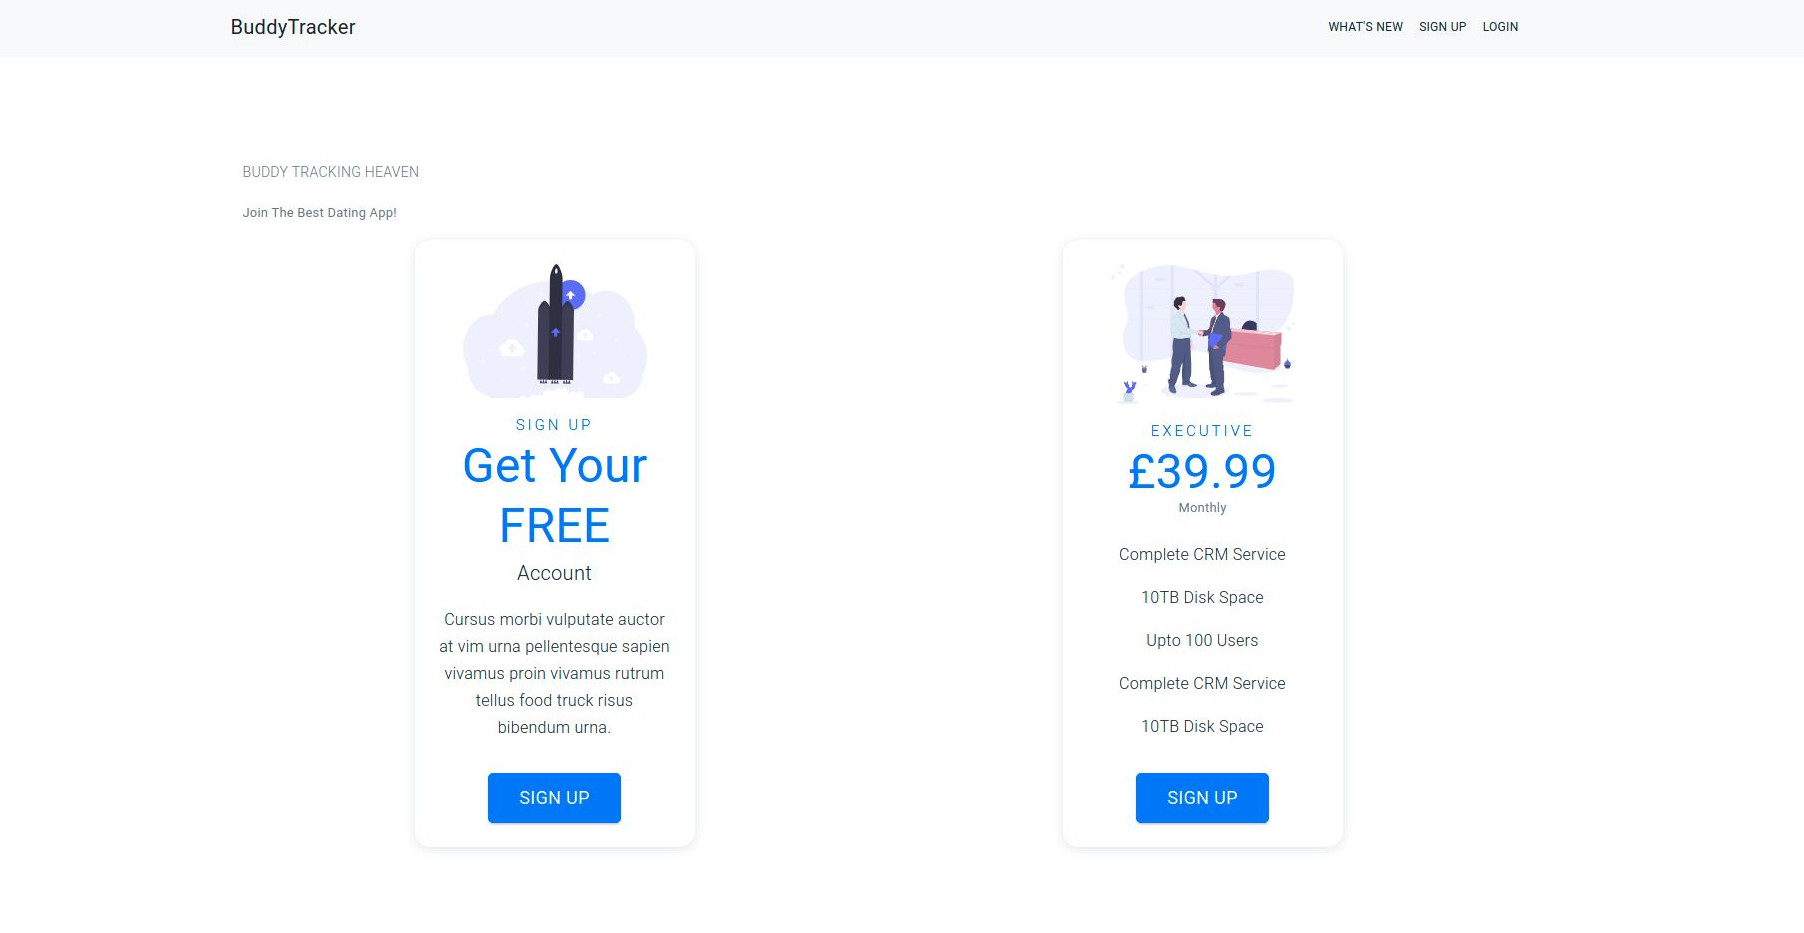
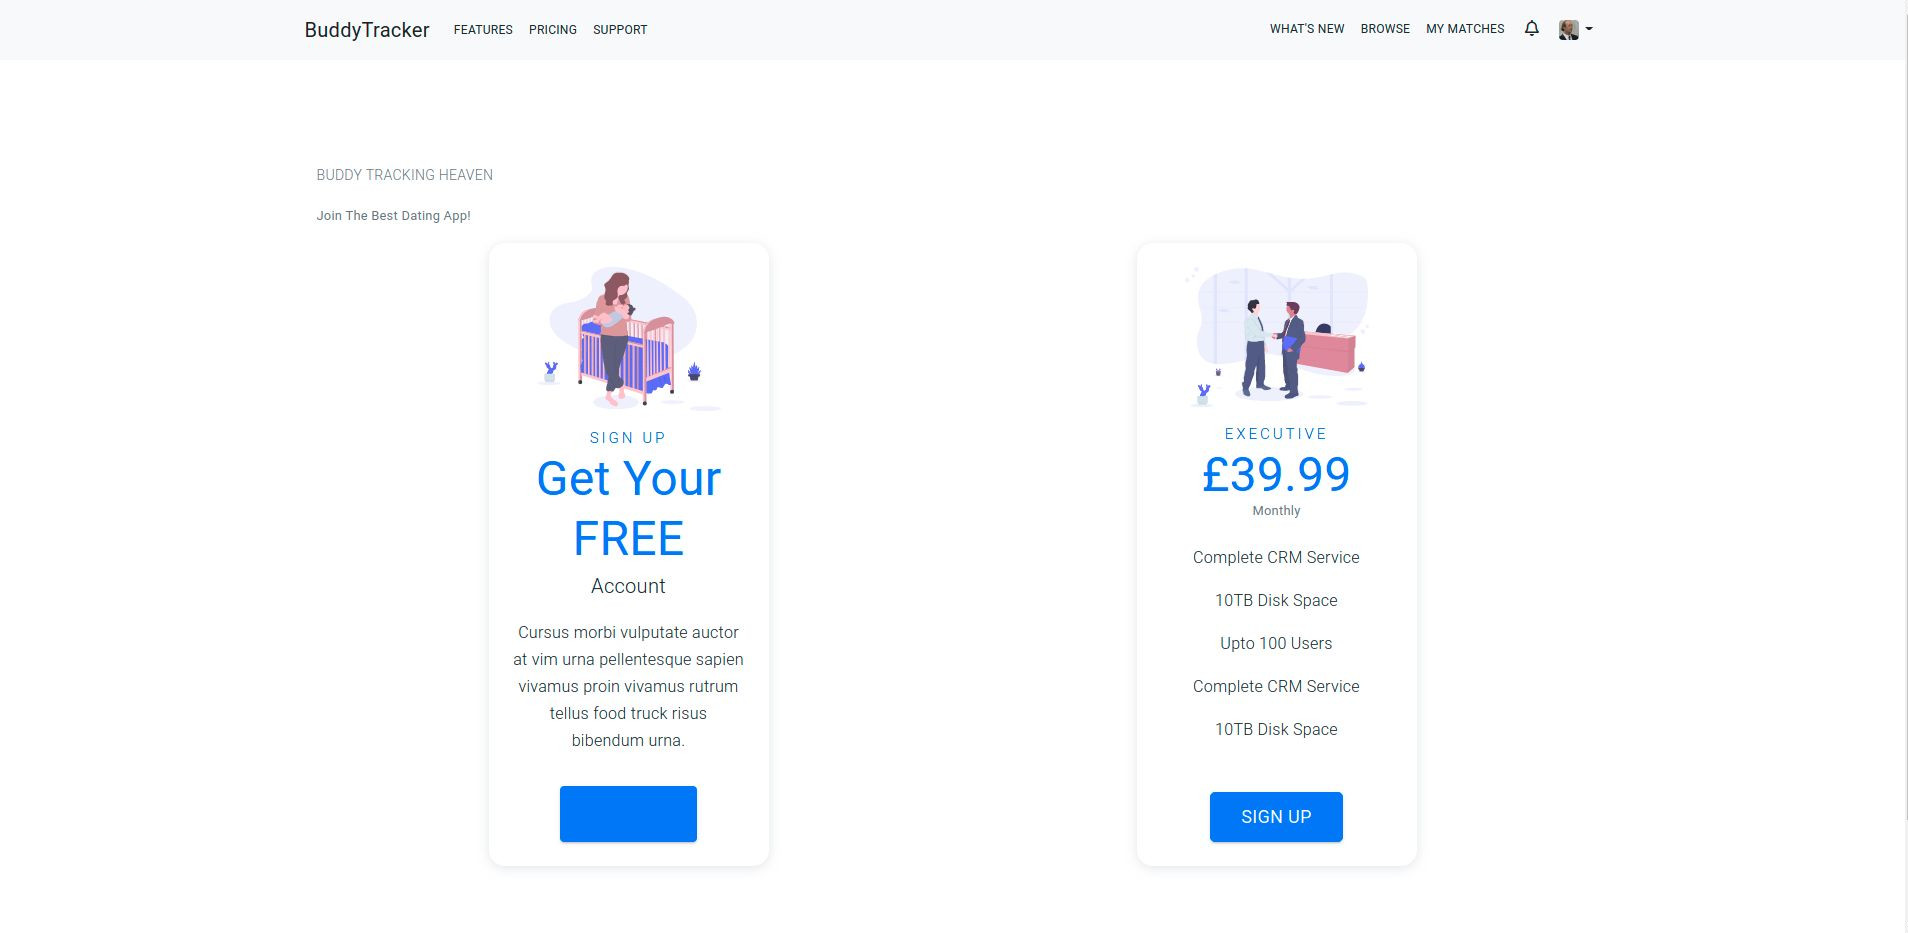
Users

diff --git a/app/assets/stylesheets/browse.scss b/app/assets/stylesheets/browse.scss
@@ -1,0 +1,3 @@
+// Place all the styles related to the Browse controller here.
+// They will automatically be included in application.css.
+// You can use Sass (SCSS) here: https://sass-lang.com/

diff --git a/db/schema.rb b/db/schema.rb
@@ -97,6 +97,7 @@ ActiveRecord::Schema.define(version: 2021_08_23_061717) do
     t.datetime "last_sign_in_at"
     t.string "current_sign_in_ip"
     t.string "last_sign_in_ip"
+    t.string "username", default: "", null: false
     t.string "first_name"
     t.string "last_name"
     t.datetime "announcements_last_read_at"
@@ -105,6 +106,7 @@ ActiveRecord::Schema.define(version: 2021_08_23_061717) do
     t.datetime "updated_at", precision: 6, null: false
     t.index ["email"], name: "index_users_on_email", unique: true
     t.index ["reset_password_token"], name: "index_users_on_reset_password_token", unique: true
+    t.index ["username"], name: "index_users_on_username", unique: true
   end
 
   add_foreign_key "active_storage_attachments", "active_storage_blobs", column: "blob_id"

diff --git a/db/seeds.rb b/db/seeds.rb
@@ -1,7 +1,10 @@
-# This file should contain all the record creation needed to seed the database with its default values.
-# The data can then be loaded with the bin/rails db:seed command (or created alongside the database with db:setup).
-#
-# Examples:
-#
-#   movies = Movie.create([{ name: 'Star Wars' }, { name: 'Lord of the Rings' }])
-#   Character.create(name: 'Luke', movie: movies.first)
+10.times do |index|
+user = User.new(
+    :first_name => "Random",
+    :last_name => "User",
+    :username => "#{first_name} #{last_name}",
+    :email => "#{first_name}.#{num}@localtinkers.com",
+    :password => '12341234'
+  )
+  u.save!(:validate => false)
+end

diff --git a/config/routes.rb b/config/routes.rb
@@ -1,6 +1,9 @@
 require 'sidekiq/web'
 
 Rails.application.routes.draw do
+  get 'browse/browse'
+  get 'browse/approve'
+  get 'browse/decline'
   get '/privacy', to: 'home#privacy'
   get '/terms', to: 'home#terms'
 authenticate :user, lambda { |u| u.admin? } do
@@ -9,7 +12,7 @@ authenticate :user, lambda { |u| u.admin? } do
   namespace :madmin do
   end
 end
-
+  get "/browse" => "browse#browse", as: :browse
   resources :notifications, only: [:index]
   resources :announcements, only: [:index]
   devise_for :users, controllers: { omniauth_callbacks: "users/omniauth_callbacks" }

diff --git a/test/controllers/browse_controller_test.rb b/test/controllers/browse_controller_test.rb
@@ -1,0 +1,18 @@
+require "test_helper"
+
+class BrowseControllerTest < ActionDispatch::IntegrationTest
+  test "should get browse" do
+    get browse_browse_url
+    assert_response :success
+  end
+
+  test "should get approve" do
+    get browse_approve_url
+    assert_response :success
+  end
+
+  test "should get decline" do
+    get browse_decline_url
+    assert_response :success
+  end
+end

diff --git a/app/models/user.rb b/app/models/user.rb
@@ -5,7 +5,7 @@ class User < ApplicationRecord
 
   has_one_attached :avatar
   has_person_name
-
+  has_many_attached :images
   has_many :notifications, as: :recipient
   has_many :services
 end

diff --git a/app/controllers/browse_controller.rb b/app/controllers/browse_controller.rb
@@ -1,0 +1,11 @@
+class BrowseController < ApplicationController
+  def browse
+    @users = User.where.not(id: current_user.id)
+  end
+
+  def approve
+  end
+
+  def decline
+  end
+end

diff --git a/app/helpers/browse_helper.rb b/app/helpers/browse_helper.rb
@@ -1,0 +1,2 @@
+module BrowseHelper
+end
